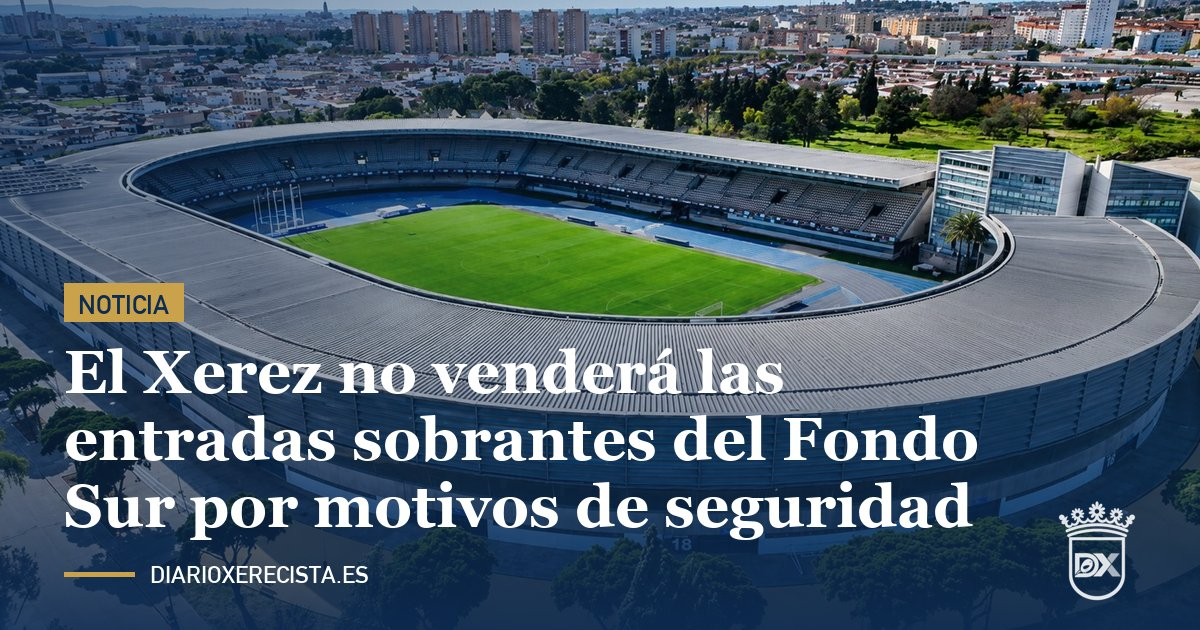
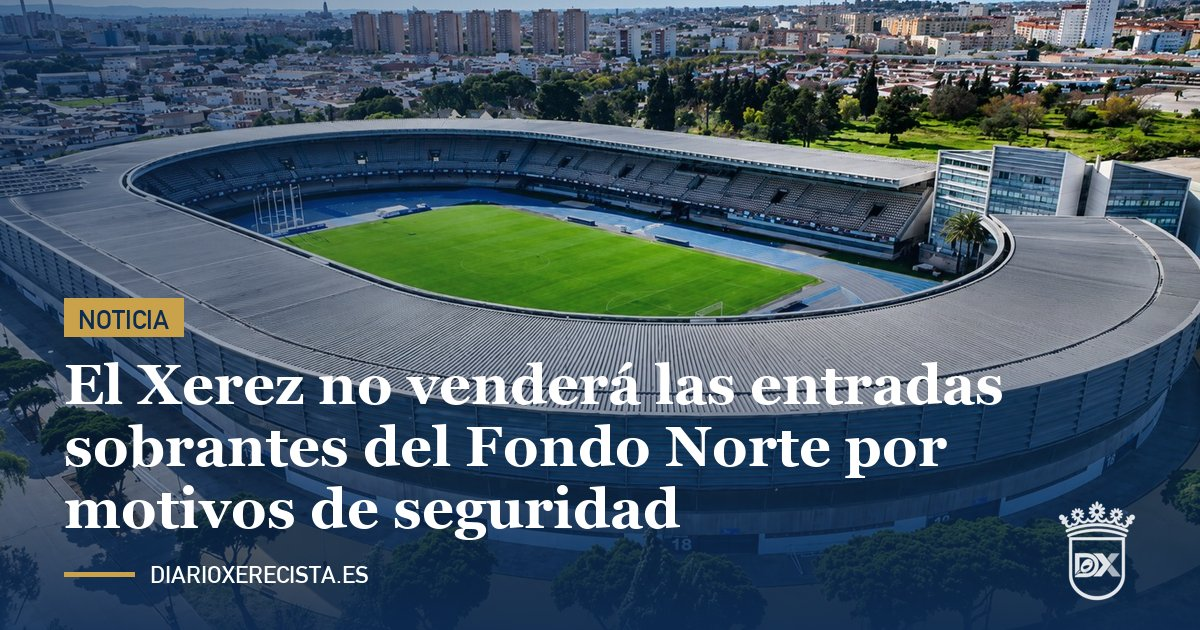
art106: las entradas sobrantes son del Fondo Norte, zona de la afición del Cádiz (ES/EN e imagen para redes)

Changed region(s): [[0.0308, 0.4222, 0.8325, 0.8746]]

diff --git a/noticias/articulos/2026-10/el-xerez-no-vendera-las-entradas-sobrantes-del-fondo-sur-por-motivos-de-seguridad/index.html b/noticias/articulos/2026-10/el-xerez-no-vendera-las-entradas-sobrantes-del-fondo-sur-por-motivos-de-seguridad/index.html
@@ -3,8 +3,8 @@
 <head>
 <meta charset="UTF-8">
 <meta name="viewport" content="width=device-width, initial-scale=1.0">
-<title>El Xerez no venderá las entradas sobrantes del Fondo Sur por motivos de seguridad | Diario Xerecista</title>
-<meta name="description" content="El Xerez CD no pondrá a la venta las entradas que han sobrado en el Fondo Sur para el partido de Copa del Rey ante el Cádiz CF, el miércoles en Chapín, por motivos de seguridad, según ha confirmado a este medio el vicepresidente del club.">
+<title>El Xerez no venderá las entradas sobrantes del Fondo Norte por motivos de seguridad | Diario Xerecista</title>
+<meta name="description" content="El Xerez CD no pondrá a la venta las entradas que han sobrado en el Fondo Norte para el partido de Copa del Rey ante el Cádiz CF, el miércoles en Chapín, por motivos de seguridad, según ha confirmado a este medio el vicepresidente del club.">
 <meta name="robots" content="index, follow, max-snippet:-1, max-image-preview:large">
 <link rel="canonical" href="https://www.diarioxerecista.es/noticias/articulos/2026-10/el-xerez-no-vendera-las-entradas-sobrantes-del-fondo-sur-por-motivos-de-seguridad/">
 <link rel="alternate" hreflang="es" href="https://www.diarioxerecista.es/noticias/articulos/2026-10/el-xerez-no-vendera-las-entradas-sobrantes-del-fondo-sur-por-motivos-de-seguridad/">
@@ -13,8 +13,8 @@
 
 <meta property="og:type" content="article">
 <meta property="og:site_name" content="Diario Xerecista">
-<meta property="og:title" content="El Xerez no venderá las entradas sobrantes del Fondo Sur por motivos de seguridad">
-<meta property="og:description" content="El Xerez CD no pondrá a la venta las entradas que han sobrado en el Fondo Sur para el partido de Copa del Rey ante el Cádiz CF, el miércoles en Chapín, por motivos de seguridad, según ha confirmado a este medio el vicepresidente del club.">
+<meta property="og:title" content="El Xerez no venderá las entradas sobrantes del Fondo Norte por motivos de seguridad">
+<meta property="og:description" content="El Xerez CD no pondrá a la venta las entradas que han sobrado en el Fondo Norte para el partido de Copa del Rey ante el Cádiz CF, el miércoles en Chapín, por motivos de seguridad, según ha confirmado a este medio el vicepresidente del club.">
 <meta property="og:url" content="https://www.diarioxerecista.es/noticias/articulos/2026-10/el-xerez-no-vendera-las-entradas-sobrantes-del-fondo-sur-por-motivos-de-seguridad/">
 <meta property="og:image" content="https://www.diarioxerecista.es/fotos/redes/art106-es.jpg">
 <meta property="og:image:width" content="1200">
@@ -22,8 +22,8 @@
 <meta property="og:locale" content="es_ES">
 
 <meta name="twitter:card" content="summary_large_image">
-<meta name="twitter:title" content="El Xerez no venderá las entradas sobrantes del Fondo Sur por motivos de seguridad">
-<meta name="twitter:description" content="El Xerez CD no pondrá a la venta las entradas que han sobrado en el Fondo Sur para el partido de Copa del Rey ante el Cádiz CF, el miércoles en Chapín, por motivos de seguridad, según ha confirmado a este medio el vicepresidente del club.">
+<meta name="twitter:title" content="El Xerez no venderá las entradas sobrantes del Fondo Norte por motivos de seguridad">
+<meta name="twitter:description" content="El Xerez CD no pondrá a la venta las entradas que han sobrado en el Fondo Norte para el partido de Copa del Rey ante el Cádiz CF, el miércoles en Chapín, por motivos de seguridad, según ha confirmado a este medio el vicepresidente del club.">
 <meta name="twitter:image" content="https://www.diarioxerecista.es/fotos/redes/art106-es.jpg">
 
 <link rel="preconnect" href="https://fonts.googleapis.com">
@@ -35,8 +35,8 @@
 {
   "@context": "https://schema.org",
   "@type": "NewsArticle",
-  "headline": "El Xerez no venderá las entradas sobrantes del Fondo Sur por motivos de seguridad",
-  "description": "El Xerez CD no pondrá a la venta las entradas que han sobrado en el Fondo Sur para el partido de Copa del Rey ante el Cádiz CF, el miércoles en Chapín, por motivos de seguridad, según ha confirmado a este medio el vicepresidente del club.",
+  "headline": "El Xerez no venderá las entradas sobrantes del Fondo Norte por motivos de seguridad",
+  "description": "El Xerez CD no pondrá a la venta las entradas que han sobrado en el Fondo Norte para el partido de Copa del Rey ante el Cádiz CF, el miércoles en Chapín, por motivos de seguridad, según ha confirmado a este medio el vicepresidente del club.",
   "image": [
     "https://www.diarioxerecista.es/fotos/publicadas/estadio-chapin-vista-aerea.jpg"
   ],
@@ -75,16 +75,16 @@
 
   <main class="n-article">
     <span class="eyebrow">Copa del Rey · Xerez CD - Cádiz CF</span>
-    <h1>El Xerez no venderá las entradas sobrantes del Fondo Sur por motivos de seguridad</h1>
+    <h1>El Xerez no venderá las entradas sobrantes del Fondo Norte por motivos de seguridad</h1>
 
     <div class="n-photo">
       <img src="../../../../fotos/publicadas/estadio-chapin-vista-aerea.jpg" alt="Vista aérea del estadio de Chapín" loading="lazy">
       <span class="n-credit">Foto: Diario Xerecista</span>
     </div>
 
-    <p class="lead">El Xerez CD no pondrá a la venta las entradas que han sobrado en el Fondo Sur para el partido de Copa del Rey ante el Cádiz CF, el miércoles en Chapín, por motivos de seguridad, según ha confirmado a este medio el vicepresidente del club.</p>
+    <p class="lead">El Xerez CD no pondrá a la venta las entradas que han sobrado en el Fondo Norte para el partido de Copa del Rey ante el Cádiz CF, el miércoles en Chapín, por motivos de seguridad, según ha confirmado a este medio el vicepresidente del club.</p>
 
-    <p>La afición del Cádiz se ubicará en el Fondo Norte de Chapín.</p>
+    <p>El Fondo Norte es la zona de Chapín destinada a la afición del Cádiz.</p>
 
     <h2>El Cádiz, a puerta cerrada</h2>
 
@@ -96,7 +96,7 @@
 
     <div class="n-meta-row">
       <span class="byline">Redacción — 26 de octubre de 2026</span>
-      <a href="https://x.com/intent/tweet?text=El%20Xerez%20no%20vender%C3%A1%20las%20entradas%20sobrantes%20del%20Fondo%20Sur%20por%20motivos%20de%20seguridad%0A%0Ahttps%3A%2F%2Fwww.diarioxerecista.es%2Fnoticias%2Farticulos%2F2026-10%2Fel-xerez-no-vendera-las-entradas-sobrantes-del-fondo-sur-por-motivos-de-seguridad%2F%0A%0A%23XerezCD" target="_blank" rel="noopener" class="share-x-btn">Compartir en 𝕏</a>
+      <a href="https://x.com/intent/tweet?text=El%20Xerez%20no%20vender%C3%A1%20las%20entradas%20sobrantes%20del%20Fondo%20Norte%20por%20motivos%20de%20seguridad%0A%0Ahttps%3A%2F%2Fwww.diarioxerecista.es%2Fnoticias%2Farticulos%2F2026-10%2Fel-xerez-no-vendera-las-entradas-sobrantes-del-fondo-sur-por-motivos-de-seguridad%2F%0A%0A%23XerezCD" target="_blank" rel="noopener" class="share-x-btn">Compartir en 𝕏</a>
     </div>
 
     <a class="back-link" href="../../../../en/noticias/articulos/2026-10/xerez-will-not-sell-the-remaining-fondo-sur-tickets-for-security-reasons/" style="display:block;margin-bottom:10px;">🇬🇧 Read in English</a>

diff --git a/en/noticias/articulos/2026-10/xerez-will-not-sell-the-remaining-fondo-sur-tickets-for-security-reasons/index.html b/en/noticias/articulos/2026-10/xerez-will-not-sell-the-remaining-fondo-sur-tickets-for-security-reasons/index.html
@@ -3,8 +3,8 @@
 <head>
 <meta charset="UTF-8">
 <meta name="viewport" content="width=device-width, initial-scale=1.0">
-<title>Xerez will not sell the remaining Fondo Sur tickets for security reasons | Diario Xerecista</title>
-<meta name="description" content="Xerez CD will not put on sale the tickets left over in the Fondo Sur for the Copa del Rey tie against Cádiz CF, on Wednesday at Chapín, for security reasons, as the club's vice-president has confirmed to this outlet.">
+<title>Xerez will not sell the remaining Fondo Norte tickets for security reasons | Diario Xerecista</title>
+<meta name="description" content="Xerez CD will not put on sale the tickets left over in the Fondo Norte for the Copa del Rey tie against Cádiz CF, on Wednesday at Chapín, for security reasons, as the club's vice-president has confirmed to this outlet.">
 <meta name="robots" content="index, follow, max-snippet:-1, max-image-preview:large">
 <link rel="canonical" href="https://www.diarioxerecista.es/en/noticias/articulos/2026-10/xerez-will-not-sell-the-remaining-fondo-sur-tickets-for-security-reasons/">
 <link rel="alternate" hreflang="es" href="https://www.diarioxerecista.es/noticias/articulos/2026-10/el-xerez-no-vendera-las-entradas-sobrantes-del-fondo-sur-por-motivos-de-seguridad/">
@@ -13,8 +13,8 @@
 
 <meta property="og:type" content="article">
 <meta property="og:site_name" content="Diario Xerecista">
-<meta property="og:title" content="Xerez will not sell the remaining Fondo Sur tickets for security reasons">
-<meta property="og:description" content="Xerez CD will not put on sale the tickets left over in the Fondo Sur for the Copa del Rey tie against Cádiz CF, on Wednesday at Chapín, for security reasons, as the club's vice-president has confirmed to this outlet.">
+<meta property="og:title" content="Xerez will not sell the remaining Fondo Norte tickets for security reasons">
+<meta property="og:description" content="Xerez CD will not put on sale the tickets left over in the Fondo Norte for the Copa del Rey tie against Cádiz CF, on Wednesday at Chapín, for security reasons, as the club's vice-president has confirmed to this outlet.">
 <meta property="og:url" content="https://www.diarioxerecista.es/en/noticias/articulos/2026-10/xerez-will-not-sell-the-remaining-fondo-sur-tickets-for-security-reasons/">
 <meta property="og:image" content="https://www.diarioxerecista.es/fotos/redes/art106-en.jpg">
 <meta property="og:image:width" content="1200">
@@ -22,8 +22,8 @@
 <meta property="og:locale" content="en_GB">
 
 <meta name="twitter:card" content="summary_large_image">
-<meta name="twitter:title" content="Xerez will not sell the remaining Fondo Sur tickets for security reasons">
-<meta name="twitter:description" content="Xerez CD will not put on sale the tickets left over in the Fondo Sur for the Copa del Rey tie against Cádiz CF, on Wednesday at Chapín, for security reasons, as the club's vice-president has confirmed to this outlet.">
+<meta name="twitter:title" content="Xerez will not sell the remaining Fondo Norte tickets for security reasons">
+<meta name="twitter:description" content="Xerez CD will not put on sale the tickets left over in the Fondo Norte for the Copa del Rey tie against Cádiz CF, on Wednesday at Chapín, for security reasons, as the club's vice-president has confirmed to this outlet.">
 <meta name="twitter:image" content="https://www.diarioxerecista.es/fotos/redes/art106-en.jpg">
 
 <link rel="preconnect" href="https://fonts.googleapis.com">
@@ -35,8 +35,8 @@
 {
   "@context": "https://schema.org",
   "@type": "NewsArticle",
-  "headline": "Xerez will not sell the remaining Fondo Sur tickets for security reasons",
-  "description": "Xerez CD will not put on sale the tickets left over in the Fondo Sur for the Copa del Rey tie against Cádiz CF, on Wednesday at Chapín, for security reasons, as the club's vice-president has confirmed to this outlet.",
+  "headline": "Xerez will not sell the remaining Fondo Norte tickets for security reasons",
+  "description": "Xerez CD will not put on sale the tickets left over in the Fondo Norte for the Copa del Rey tie against Cádiz CF, on Wednesday at Chapín, for security reasons, as the club's vice-president has confirmed to this outlet.",
   "image": [
     "https://www.diarioxerecista.es/fotos/publicadas/estadio-chapin-vista-aerea.jpg"
   ],
@@ -75,16 +75,16 @@
 
   <main class="n-article">
     <span class="eyebrow">Copa del Rey · Xerez CD - Cádiz CF</span>
-    <h1>Xerez will not sell the remaining Fondo Sur tickets for security reasons</h1>
+    <h1>Xerez will not sell the remaining Fondo Norte tickets for security reasons</h1>
 
     <div class="n-photo">
       <img src="../../../../../fotos/publicadas/estadio-chapin-vista-aerea.jpg" alt="Aerial view of the Chapín stadium" loading="lazy">
       <span class="n-credit">Photo: Diario Xerecista</span>
     </div>
 
-    <p class="lead">Xerez CD will not put on sale the tickets left over in the Fondo Sur for the Copa del Rey tie against Cádiz CF, on Wednesday at Chapín, for security reasons, as the club's vice-president has confirmed to this outlet.</p>
+    <p class="lead">Xerez CD will not put on sale the tickets left over in the Fondo Norte for the Copa del Rey tie against Cádiz CF, on Wednesday at Chapín, for security reasons, as the club's vice-president has confirmed to this outlet.</p>
 
-    <p>Cádiz supporters will be housed in the Fondo Norte at Chapín.</p>
+    <p>The Fondo Norte is the area of Chapín set aside for Cádiz supporters.</p>
 
     <h2>Cádiz train behind closed doors</h2>
 
@@ -96,7 +96,7 @@
 
     <div class="n-meta-row">
       <span class="byline">Newsroom — 26 October 2026</span>
-      <a href="https://x.com/intent/tweet?text=Xerez%20will%20not%20sell%20the%20remaining%20Fondo%20Sur%20tickets%20for%20security%20reasons%0A%0Ahttps%3A%2F%2Fwww.diarioxerecista.es%2Fen%2Fnoticias%2Farticulos%2F2026-10%2Fxerez-will-not-sell-the-remaining-fondo-sur-tickets-for-security-reasons%2F%0A%0A%23XerezCD" target="_blank" rel="noopener" class="share-x-btn">Share on 𝕏</a>
+      <a href="https://x.com/intent/tweet?text=Xerez%20will%20not%20sell%20the%20remaining%20Fondo%20Norte%20tickets%20for%20security%20reasons%0A%0Ahttps%3A%2F%2Fwww.diarioxerecista.es%2Fen%2Fnoticias%2Farticulos%2F2026-10%2Fxerez-will-not-sell-the-remaining-fondo-sur-tickets-for-security-reasons%2F%0A%0A%23XerezCD" target="_blank" rel="noopener" class="share-x-btn">Share on 𝕏</a>
     </div>
 
     <a class="back-link" href="../../../../../noticias/articulos/2026-10/el-xerez-no-vendera-las-entradas-sobrantes-del-fondo-sur-por-motivos-de-seguridad/" style="display:block;margin-bottom:10px;">🇪🇸 Leer en español</a>
